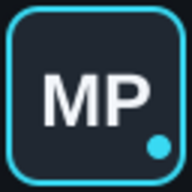
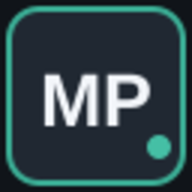
final all chnages 2

Changed region(s): [[0.0, 0.0, 1.0, 1.0]]

diff --git a/src/App.css b/src/App.css
@@ -4,16 +4,16 @@
   --bg-alt: #171d24;
   --card: #171d24;
   --card-raised: #202832;
-  --rose: #39d9f2;
-  --rose-strong: #39d9f2;
-  --rose-hover: #24bfd8;
-  --rose-bright: #39d9f2;
-  --rose-rgb: 57, 217, 242;
-  --rose-deep-rgb: 57, 217, 242;
-  --rose-strong-rgb: 57, 217, 242;
-  --rose-bright-rgb: 57, 217, 242;
-  --accent: #39d9f2;
-  --accent-rgb: 57, 217, 242;
+  --rose: #45bfa5;
+  --rose-strong: #3baf96;
+  --rose-hover: #32957f;
+  --rose-bright: #45bfa5;
+  --rose-rgb: 59, 175, 150;
+  --rose-deep-rgb: 59, 175, 150;
+  --rose-strong-rgb: 59, 175, 150;
+  --rose-bright-rgb: 69, 191, 165;
+  --accent: #3baf96;
+  --accent-rgb: 59, 175, 150;
   --background-rgb: 16, 20, 25;
   --bg-alt-rgb: 23, 29, 36;
   --card-rgb: 23, 29, 36;
@@ -27,7 +27,7 @@
   --success-text: #36c9ad;
   --mask-opaque: #ffffff;
   --border: rgba(168, 176, 187, 0.15);
-  --border-strong: rgba(57, 217, 242, 0.38);
+  --border-strong: rgba(59, 175, 150, 0.38);
   --sans: Inter, ui-sans-serif, system-ui, -apple-system, BlinkMacSystemFont, "Segoe UI", sans-serif;
   --serif: var(--sans);
   --mono: ui-monospace, SFMono-Regular, Menlo, Consolas, monospace;
@@ -100,7 +100,7 @@ h1, h2, h3, h4 { color: var(--text); }
 .social-link:hover { color: var(--text); }
 .social-link.is-unavailable { color: var(--body); }
 .social-link.is-unavailable small { color: var(--muted-readable); font-family: var(--mono); font-size: 9px; }
-.linkedin-icon { display: grid; width: 18px; height: 18px; place-items: center; border-radius: 3px; background: #0a66c2; color: #ffffff; font-family: var(--sans); font-size: 11px; font-weight: 700; letter-spacing: -.06em; line-height: 1; }
+.linkedin-icon { display: grid; width: 18px; height: 18px; place-items: center; border-radius: 3px; background: var(--accent); color: var(--bg); font-family: var(--sans); font-size: 11px; font-weight: 700; letter-spacing: -.06em; line-height: 1; }
 .hero-art { position: relative; width: min(100%, 500px); aspect-ratio: 1; margin: auto; border: 1px solid var(--border); border-radius: 50%; background: radial-gradient(circle, rgba(var(--rose-strong-rgb), .08), transparent 58%); }
 .hero-art::before, .hero-art::after { position: absolute; inset: 9%; border: 1px solid rgba(var(--rose-rgb), .12); border-radius: 50%; content: ''; }
 .hero-art::after { inset: 21%; border-style: dashed; opacity: .65; }

diff --git a/src/App.tsx b/src/App.tsx
@@ -515,7 +515,7 @@ function ProjectVisual({ project }: { project: Project }) {
 
   return (
     <figure className="project-visual">
-      <figcaption>Conceptual system flow · illustrative</figcaption>
+      <figcaption>Conceptual flow · illustrative, not live data</figcaption>
       <div aria-hidden="true">
         {visualStages[project.id].map((stage, index) => (
           <span className="visual-stage" key={stage}>

diff --git a/README.md b/README.md
@@ -9,7 +9,7 @@ The site presents hands-on experience, education, skills, research interests, an
 
 ## Highlights
 
-- Responsive graphite theme with electric-cyan accents, system typography, consistent card surfaces, and keyboard-visible focus states.
+- Responsive graphite theme with restrained teal accents, system typography, consistent card surfaces, and keyboard-visible focus states.
 - Server-rendered HTML generated at build time so page content and metadata are present before client-side JavaScript runs.
 - Filterable project cards with problem statements, current approaches, openly marked outcomes, and additional technical details.
 - Education, practical electronics experience, achievements, workshop information, and research interests.
